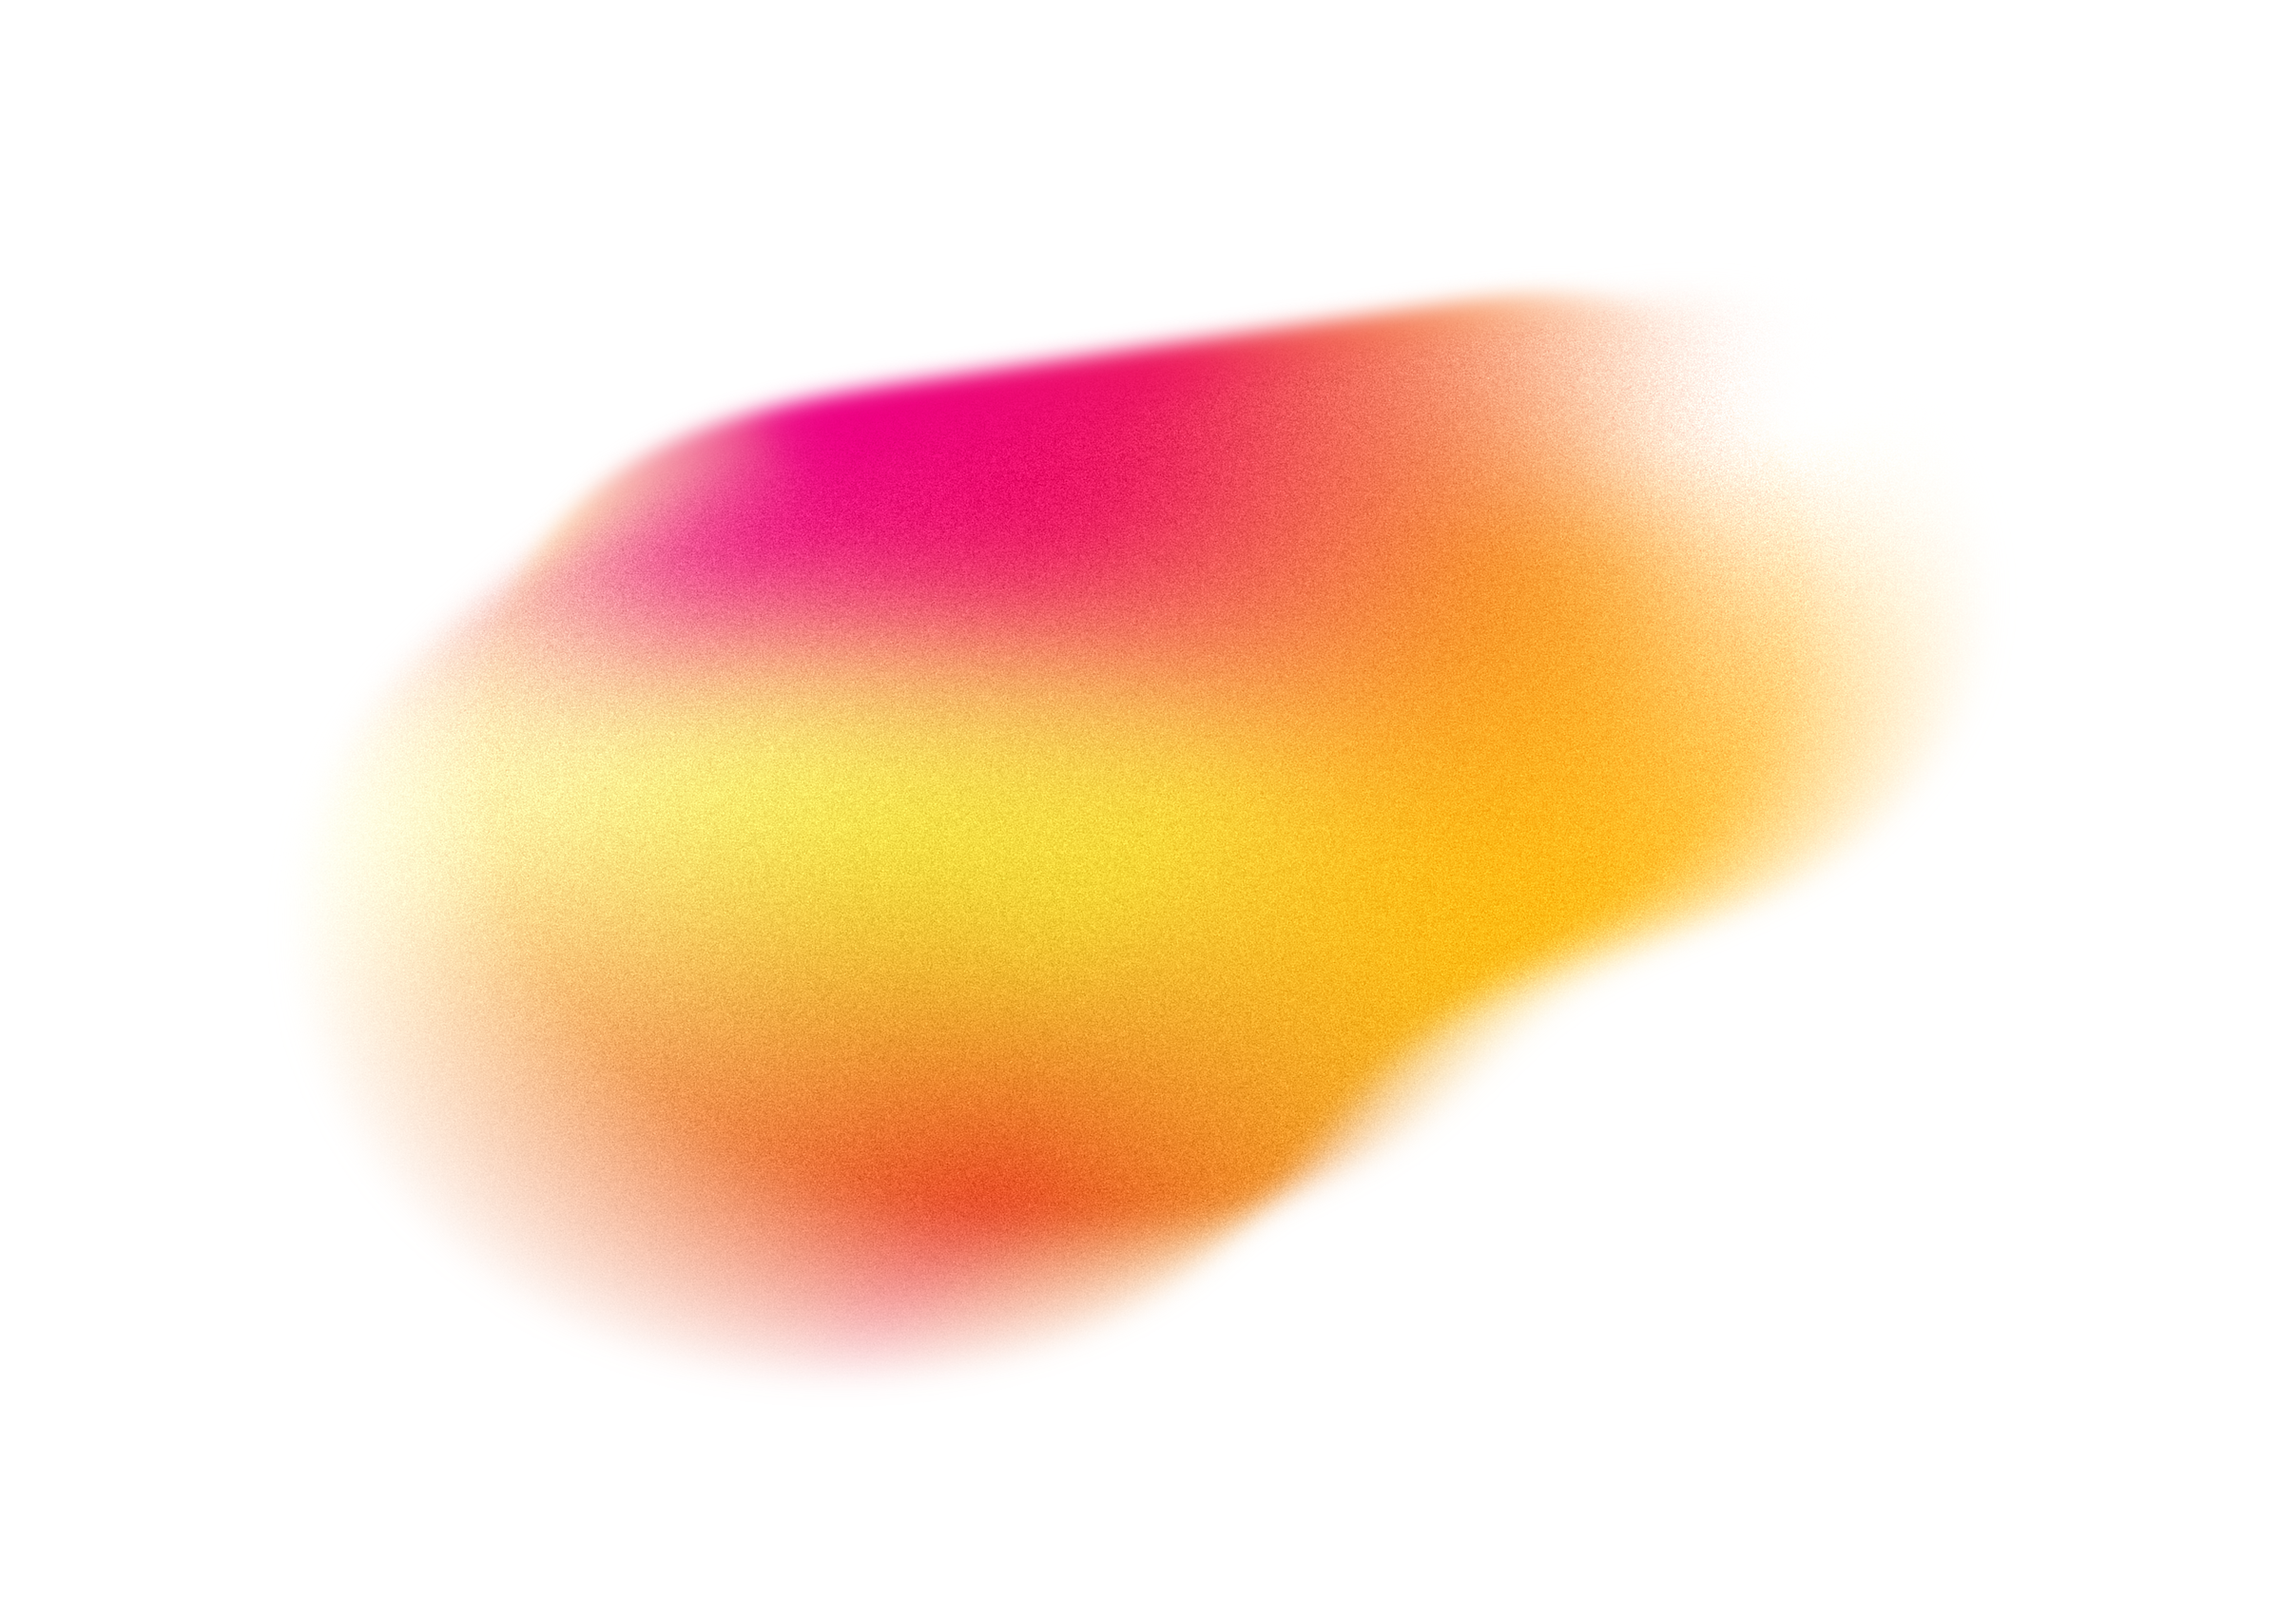
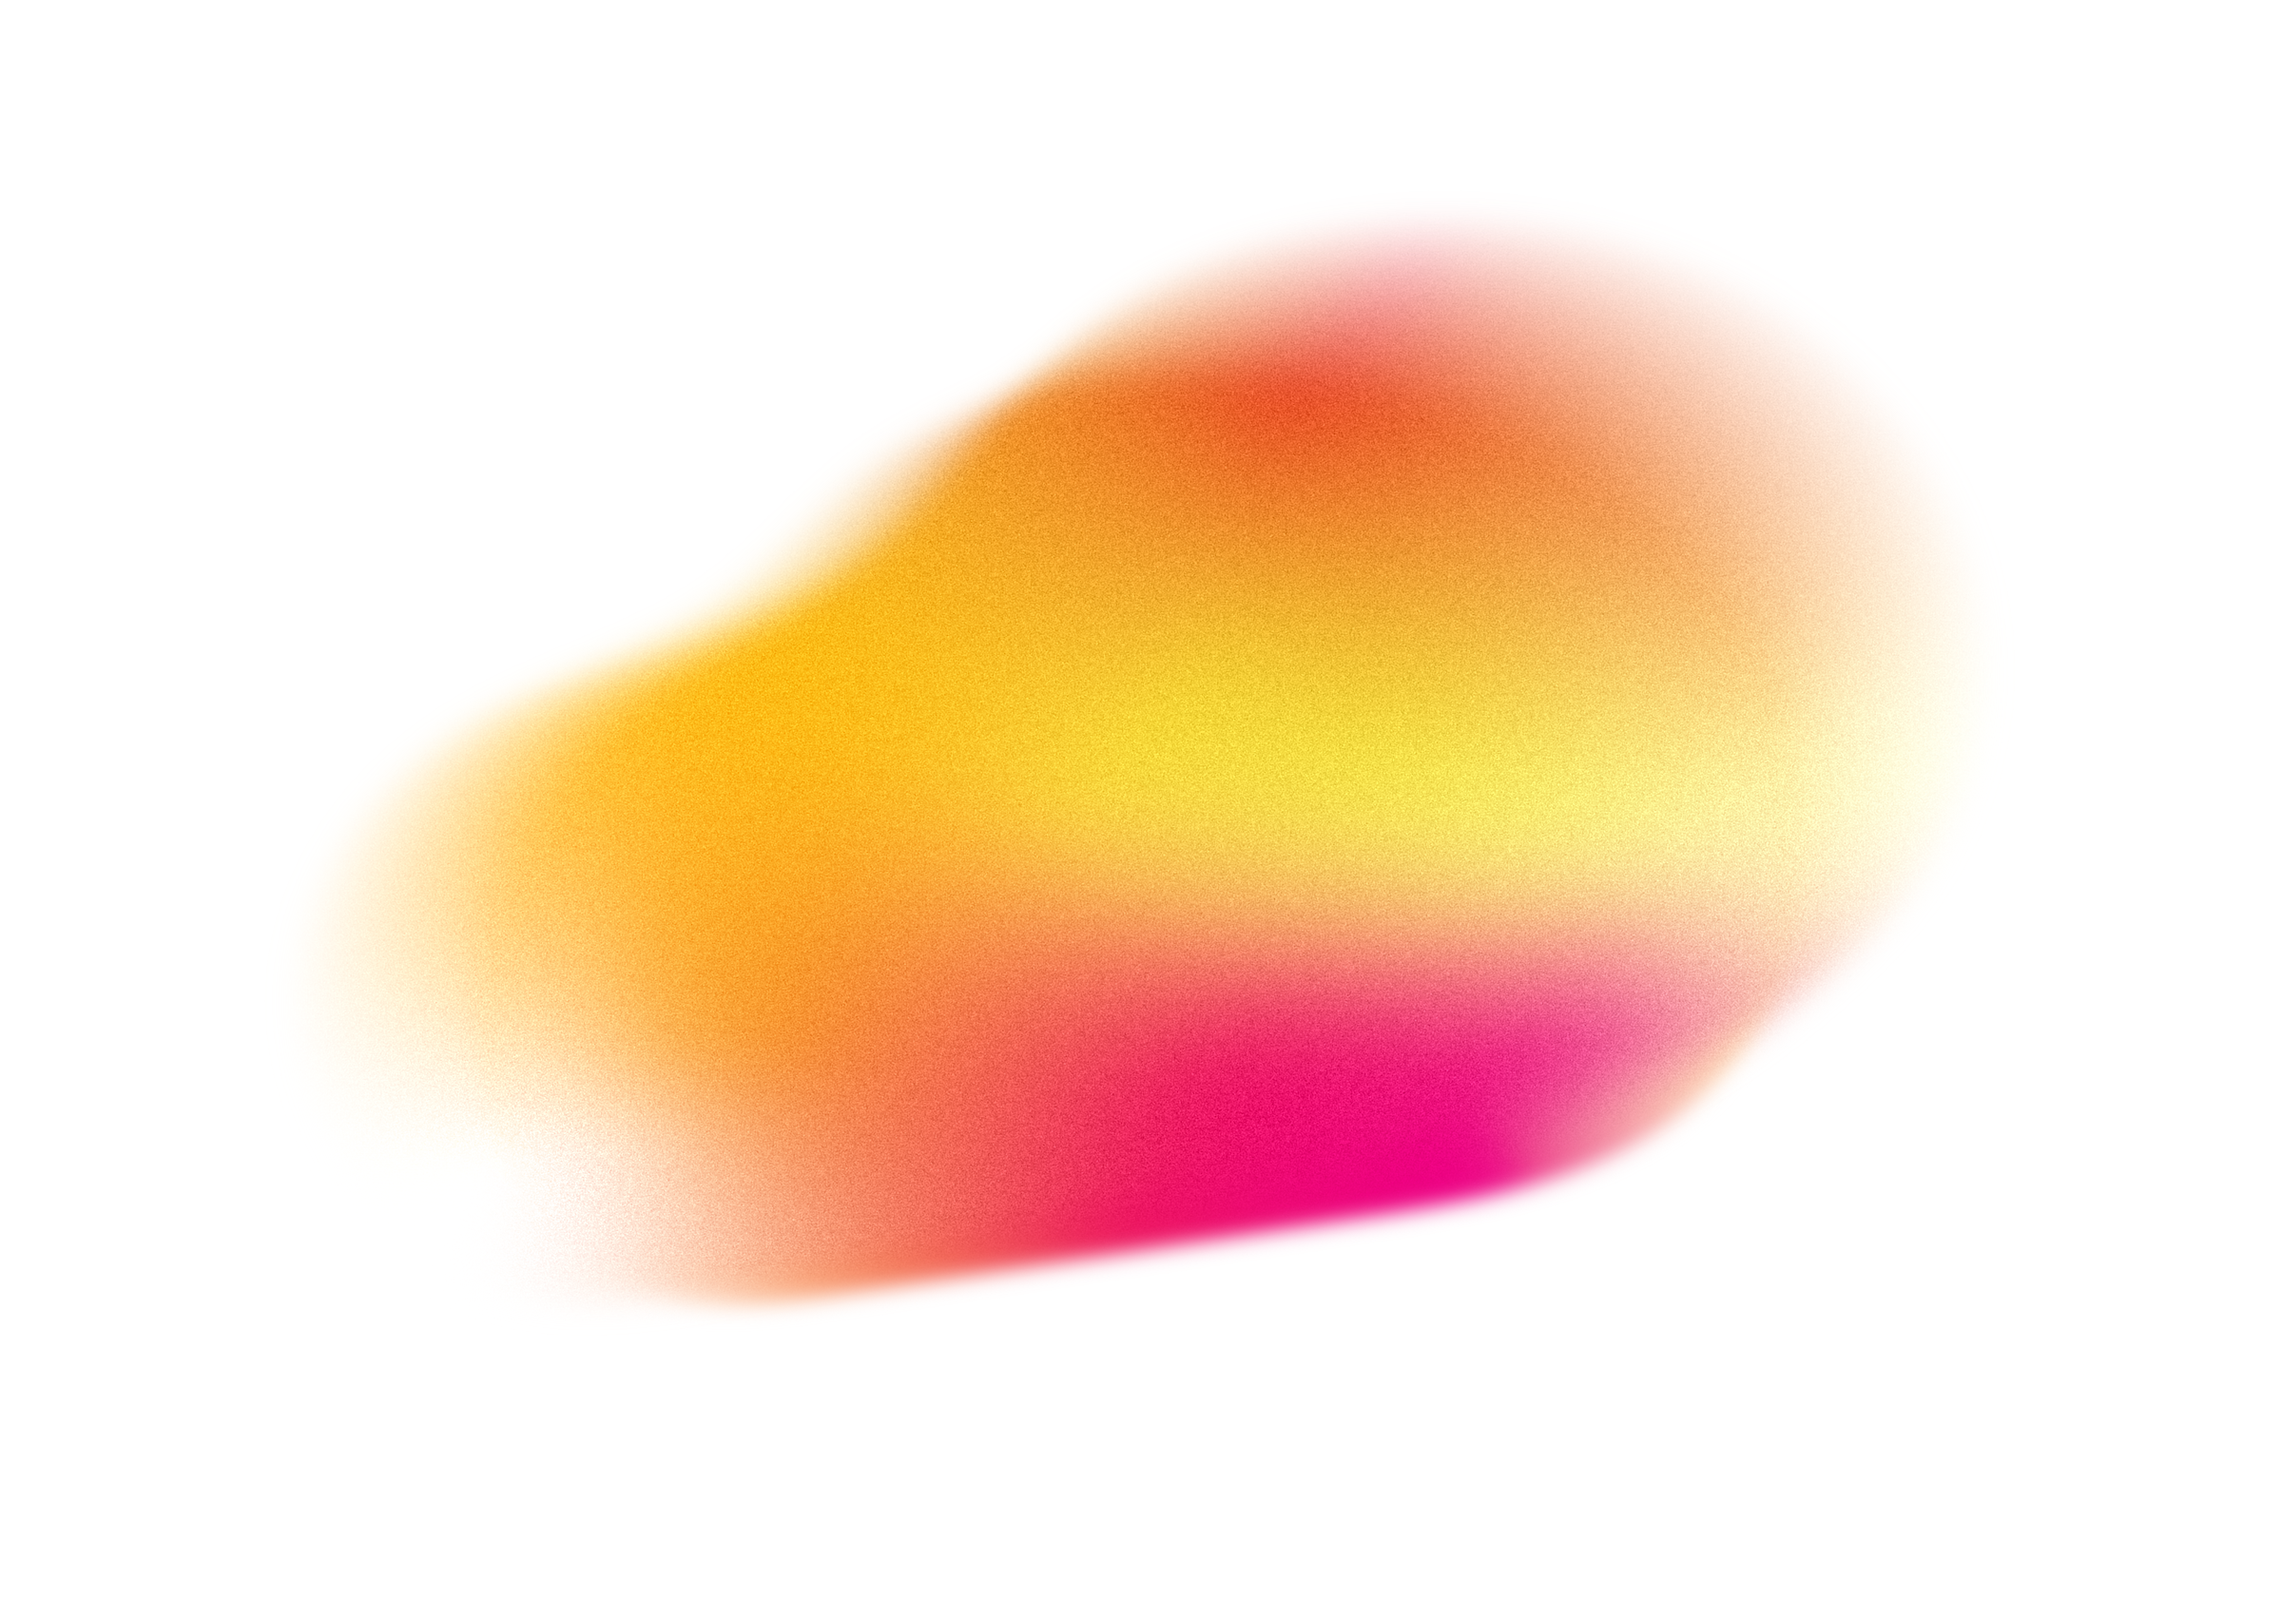
Background Blobs Fixed

diff --git a/css/dio.scss b/css/dio.scss
@@ -38,50 +38,38 @@ img {
   }
 }
 
-body{
+html{
   position: relative;
+  &:after{
+    content: "";
+    position: absolute;
+    top: 0;
+    left: 0;
+    bottom: 0;
+    right: 0;
+    background-image: url(../img/soft-blue.png), url(../img/mango.png);
+    background-position: top -45em left -45em, bottom -40em right -50em;
+    background-size: 175em, 175em;
+    background-repeat: no-repeat;
+    z-index: -1;
+    @media (prefers-color-scheme: dark) {
+      filter: brightness(0.5);
+    }
+    @include breakpoint(small only){
+      background-position: top -10em left -20em, bottom -15em right -25em;
+      background-size: 60em, 60em;
+    }
+  }
+}
+
+body{
   font-family: $space-grotesk;
   font-weight: $space-grotesk-light;
   font-size: 3rem;
   color: semantic-color(text);
   background-color: semantic-color(body-background);
-  // TODO resolve overflow issue
   @include breakpoint(small only){
     font-size: 1.5rem;
-  }
-  &::before{
-    content: "";
-    position: absolute;
-    background: url(/img/soft-blue.png);
-    width: 250%;
-    aspect-ratio: 4/3;
-    top: -50%;
-    left: -100%;
-    background-position: center;
-    background-size: contain;
-    background-repeat: no-repeat;
-    transform: rotate(0deg);
-    z-index: -1;
-    @media (prefers-color-scheme: dark) {
-      filter: brightness(0.5);
-    }
-  }
-  &::after{
-    content: "";
-    position: absolute;
-    background: url(/img/mango.png);
-    width: 250%;
-    aspect-ratio: 4/3;
-    bottom: -50%;
-    right: -75%;
-    background-position: center;
-    background-size: contain;
-    background-repeat: no-repeat;
-    transform: rotate(180deg);
-    z-index: -1;
-    @media (prefers-color-scheme: dark) {
-      filter: brightness(0.5);
-    }
   }
 
   header{

diff --git a/_includes/footer.html b/_includes/footer.html
@@ -13,5 +13,4 @@
     {% include external-link.html css-class="social" link="https://twitter.com/Dzgn_io" content="Twitter" %}
     {% include external-link.html css-class="social" link="https://www.instagram.com/dzgnio/" content="Instagram" %}
   </div>
-
 </footer>
